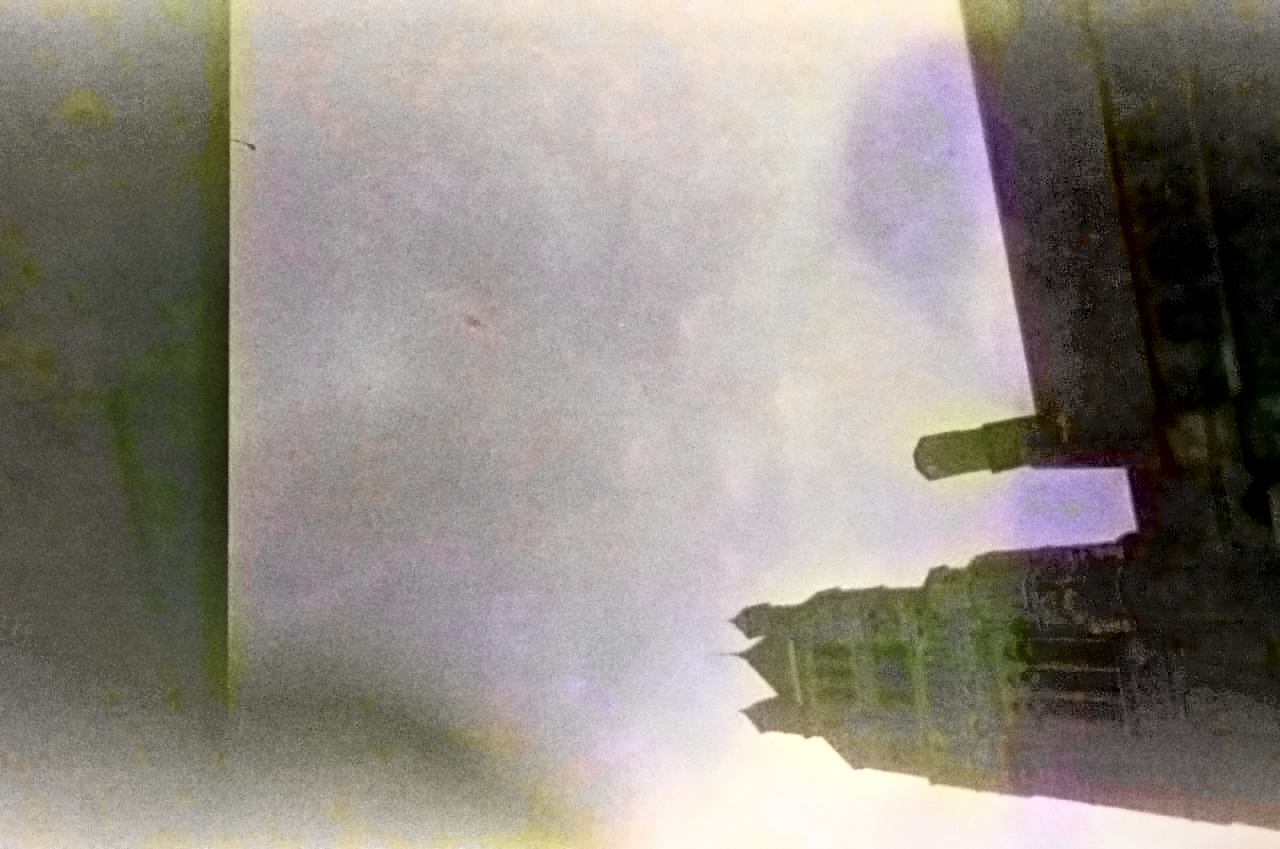
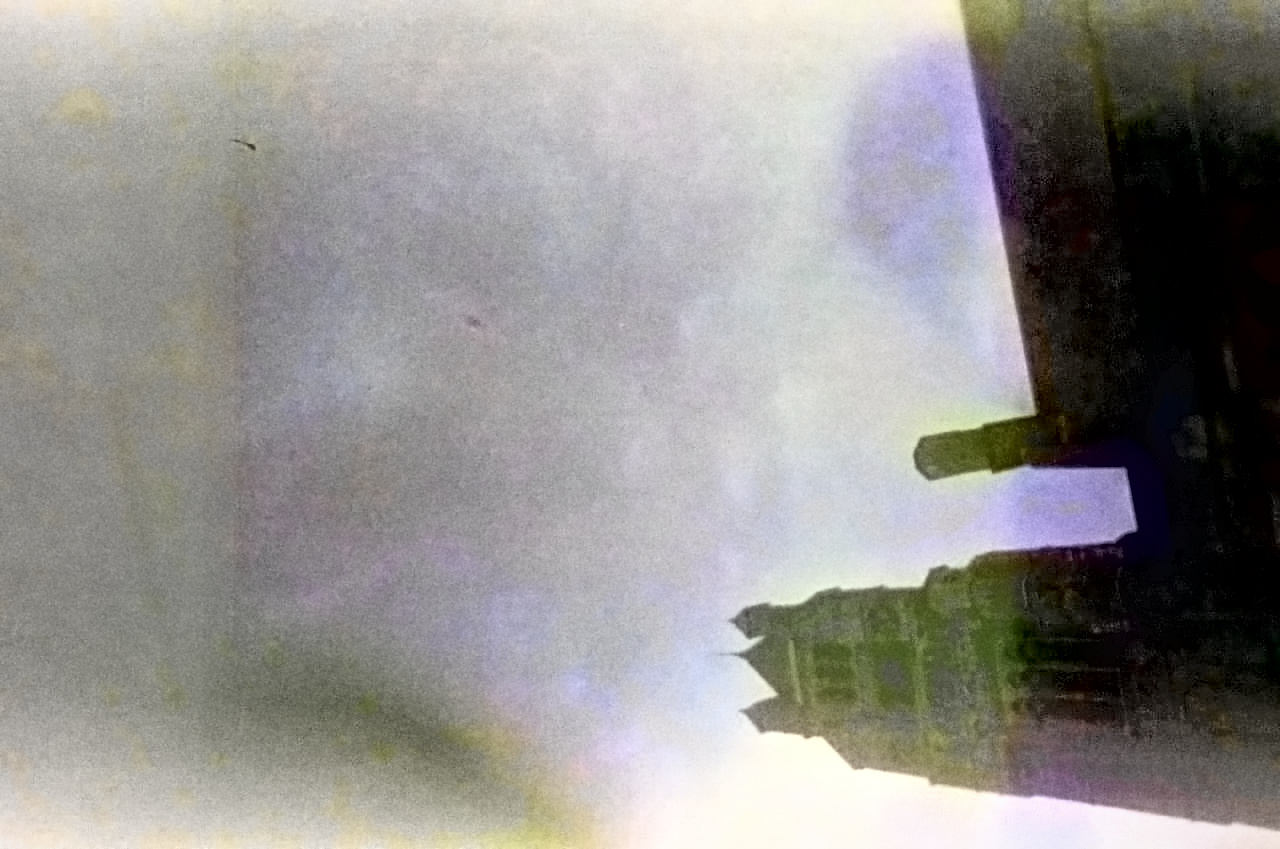
poipoisson CMU and BM3D

diff --git a/m35/lab/recon.py b/m35/lab/recon.py
@@ -1,0 +1,128 @@
+from __future__ import annotations
+
+import cv2
+import numpy as np
+from scipy.fft import dctn, idctn
+
+from ..color_space import linear_to_srgb, rgb_to_lab, srgb_to_linear
+
+RECON_DEFAULTS = {
+    "seam_z": 12.0,
+    "seam_max": 4,
+    "seam_halfwidth": 3,
+    "seam_blur": 2.0,
+    "spot_max_area": 40,
+    "spot_z": 5.0,
+    "spot_radius": 3,
+}
+
+
+def poisson_solve(div: np.ndarray) -> np.ndarray:
+    m, n = div.shape
+    coeff = dctn(div, type=2, norm="ortho")
+    i = np.arange(m).reshape(-1, 1)
+    j = np.arange(n).reshape(1, -1)
+    denom = 2.0 * np.cos(np.pi * i / m) + 2.0 * np.cos(np.pi * j / n) - 4.0
+    denom[0, 0] = 1.0
+    out = coeff / denom
+    out[0, 0] = 0.0
+    return idctn(out, type=2, norm="ortho")
+
+
+def forward_gradients(plane: np.ndarray) -> tuple[np.ndarray, np.ndarray]:
+    gx = np.zeros_like(plane)
+    gy = np.zeros_like(plane)
+    gx[:, :-1] = plane[:, 1:] - plane[:, :-1]
+    gy[:-1, :] = plane[1:, :] - plane[:-1, :]
+    return gx, gy
+
+
+def divergence(gx: np.ndarray, gy: np.ndarray) -> np.ndarray:
+    d = np.zeros_like(gx)
+    d[:, 1:] += gx[:, 1:] - gx[:, :-1]
+    d[:, 0] += gx[:, 0]
+    d[1:, :] += gy[1:, :] - gy[:-1, :]
+    d[0, :] += gy[0, :]
+    return d
+
+
+def _profile_peaks(profile: np.ndarray, z_thresh: float, limit: int) -> list[int]:
+    med = float(np.median(profile))
+    mad = float(np.median(np.abs(profile - med))) + 1e-6
+    z = (profile - med) / mad
+    idx = np.where(z > z_thresh)[0]
+    if idx.size == 0:
+        return []
+    groups: list[list[int]] = []
+    for i in idx:
+        if groups and i - groups[-1][-1] <= 4:
+            groups[-1].append(int(i))
+        else:
+            groups.append([int(i)])
+    scored = sorted(((float(z[g].max()), int(np.mean(g))) for g in groups), reverse=True)
+    edge = max(6, int(0.01 * profile.size))
+    kept = [pos for _, pos in scored if edge < pos < profile.size - edge]
+    return kept[:limit]
+
+
+def detect_seams(rgb: np.ndarray, cfg: dict | None = None) -> tuple[list[int], list[int]]:
+    cfg = {**RECON_DEFAULTS, **(cfg or {})}
+    lightness = cv2.GaussianBlur(rgb_to_lab(rgb)[..., 0], (0, 0), float(cfg["seam_blur"]))
+    col_profile = np.abs(np.diff(lightness, axis=1)).mean(axis=0)
+    row_profile = np.abs(np.diff(lightness, axis=0)).mean(axis=1)
+    limit = int(cfg["seam_max"])
+    cols = _profile_peaks(col_profile, float(cfg["seam_z"]), limit)
+    rows = _profile_peaks(row_profile, float(cfg["seam_z"]), limit)
+    return cols, rows
+
+
+def remove_seams(rgb: np.ndarray, cols: list[int], rows: list[int],
+                 cfg: dict | None = None) -> np.ndarray:
+    if not cols and not rows:
+        return rgb
+    cfg = {**RECON_DEFAULTS, **(cfg or {})}
+    half = int(cfg["seam_halfwidth"])
+    lin = srgb_to_linear(rgb)
+    out = np.empty_like(lin)
+    h, w = lin.shape[:2]
+
+    for c in range(3):
+        plane = lin[..., c]
+        gx, gy = forward_gradients(plane)
+        for col in cols:
+            gx[:, max(0, col - half):min(w, col + half + 1)] = 0.0
+        for row in rows:
+            gy[max(0, row - half):min(h, row + half + 1), :] = 0.0
+        solved = poisson_solve(divergence(gx, gy))
+        out[..., c] = solved + (float(plane.mean()) - float(solved.mean()))
+
+    return linear_to_srgb(np.clip(out, 0.0, 1.0))
+
+
+def detect_spots(rgb: np.ndarray, cfg: dict | None = None) -> np.ndarray:
+    cfg = {**RECON_DEFAULTS, **(cfg or {})}
+    lightness = rgb_to_lab(rgb)[..., 0]
+    median = cv2.medianBlur(lightness.astype(np.float32), 5)
+    residual = lightness - median
+    sigma = 1.4826 * float(np.median(np.abs(residual - np.median(residual)))) + 1e-6
+    candidate = (np.abs(residual) > float(cfg["spot_z"]) * sigma).astype(np.uint8)
+
+    n, labels, stats, _ = cv2.connectedComponentsWithStats(candidate, 8)
+    mask = np.zeros_like(candidate)
+    max_area = int(cfg["spot_max_area"])
+    for i in range(1, n):
+        area = stats[i, cv2.CC_STAT_AREA]
+        if area <= max_area:
+            mask[labels == i] = 255
+    return mask
+
+
+def spot_defects(rgb: np.ndarray, cfg: dict | None = None) -> tuple[np.ndarray, int]:
+    cfg = {**RECON_DEFAULTS, **(cfg or {})}
+    mask = detect_spots(rgb, cfg)
+    count = int(cv2.connectedComponentsWithStats(mask, 8)[0]) - 1
+    if count <= 0:
+        return rgb, 0
+    rgb8 = np.clip(rgb * 255.0, 0, 255).astype(np.uint8)
+    fixed = cv2.inpaint(rgb8, mask, int(cfg["spot_radius"]), cv2.INPAINT_TELEA)
+    return (fixed.astype(np.float32) / 255.0), count

diff --git a/m35/lab/fusion.py b/m35/lab/fusion.py
@@ -13,6 +13,7 @@ from ..noise import chroma_confidence_map, denoise
 from ..render import bw_channel_weights
 from ..tone import tonal_recovery
 from .local_contrast import laplacian_local_contrast
+from .recon import detect_seams, remove_seams, spot_defects
 
 LAB_DEFAULTS: dict[str, Any] = {
     "chroma_gain": 3.5,
@@ -25,13 +26,31 @@ LAB_DEFAULTS: dict[str, Any] = {
     "gain_floor": 0.7,
     "gain_lo_pct": 25.0,
     "gain_hi_pct": 85.0,
+    "seam_z": 40.0,
+    "seam_halfwidth": 3,
+    "spot_z": 0.0,
+    "spot_max_area": 12,
 }
 
 
 def corrected_base(rgb: np.ndarray, stats: FrameStats, cfg: dict[str, Any],
-                   params: dict[str, Any]) -> np.ndarray:
+                   params: dict[str, Any], lab_cfg: dict[str, Any] | None = None) -> np.ndarray:
+    lab_cfg = lab_cfg or {}
     x = predenoise_crushed_channels(rgb, stats, cfg)
     x = channel_levels(x, stats, cfg, cfg["neutrality"], params)
+
+    seam_z = float(lab_cfg.get("seam_z", 0.0))
+    if seam_z > 0.0:
+        cols, rows = detect_seams(x, {"seam_z": seam_z})
+        if cols or rows:
+            x = remove_seams(x, cols, rows, {"seam_halfwidth": lab_cfg.get("seam_halfwidth", 3)})
+        params["seams"] = {"cols": cols, "rows": rows}
+
+    if float(lab_cfg.get("spot_z", 0.0)) > 0.0:
+        x, n = spot_defects(x, {"spot_z": lab_cfg["spot_z"],
+                                "spot_max_area": lab_cfg.get("spot_max_area", 12)})
+        params["spots_filled"] = n
+
     x = flatten_uneven_fog(x, stats, cfg, params)
     x = remove_residual_cast(x, cfg, params)
     return protect_highlights(x, cfg)
@@ -55,7 +74,7 @@ def render_fused(rgb: np.ndarray, stats: FrameStats, base_cfg: dict[str, Any],
         "chroma_denoise_scale": lab_cfg["chroma_denoise_scale"],
     })
 
-    base = corrected_base(rgb, stats, cfg, p)
+    base = corrected_base(rgb, stats, cfg, p, lab_cfg)
 
     color = tonal_recovery(base, cfg, p)
     color = denoise(color, cfg, p)

diff --git a/experiment.py b/experiment.py
@@ -35,6 +35,12 @@ def parse_args(argv: list[str]) -> argparse.Namespace:
     ap.add_argument("--grain", type=float, default=None)
     ap.add_argument("--halation", type=float, default=None)
     ap.add_argument("--dehaze-strength", type=float, default=None)
+    ap.add_argument("--seam-z", type=float, default=None,
+                    help="robust z above which a frame-spanning edge counts as a light-leak "
+                         "seam and is removed in the gradient domain; 0 disables")
+    ap.add_argument("--spot-z", type=float, default=None,
+                    help="dust/scratch spotting threshold; 0 (default) disables it, because "
+                         "on these scans grain and dust are not separable")
     ap.add_argument("--no-contact-sheet", action="store_true")
     return ap.parse_args(argv)
 
@@ -63,7 +69,8 @@ def main(argv: list[str]) -> int:
     out_dir.mkdir(parents=True, exist_ok=True)
 
     lab_cfg: dict[str, Any] = dict(LAB_DEFAULTS)
-    for key in ("chroma_gain", "lc_gain", "grain", "halation", "dehaze_strength"):
+    for key in ("chroma_gain", "lc_gain", "grain", "halation", "dehaze_strength",
+                "seam_z", "spot_z"):
         value = getattr(args, key)
         if value is not None:
             lab_cfg[key] = value

diff --git a/README.md b/README.md
@@ -44,8 +44,28 @@ grain and a slight vignette.
 `selenium`, `sepia` and `cyanotype` are split-toned from the fused luminance — on this roll
 they are the best-looking outputs by some margin.
 
+### gradient-domain seam removal
+
+A light leak often lands as a hard, frame-spanning step. Chroma flattening cannot follow it
+and a Gaussian estimate smears across it, so the band survives every filter-based attempt.
+
+`m35/lab/recon.py` finds those steps by their robust z-score in the column/row gradient
+profile, zeroes them in the gradient field, and reintegrates the image by solving Poisson
+with Neumann boundaries via DCT. The step vanishes and the two sides merge seamlessly;
+nothing else in the frame moves.
+
+The threshold matters. Genuine leak seams on this roll score z = 196, 118 and 51; real
+image edges score 12–20. At `--seam-z 12` the solver flattens actual content. The default
+of 40 fires on two frames out of eight, which is the correct answer.
+
+Dust spotting exists (`--spot-z`) but is **off by default**. At this resolution grain and
+dust are not separable — tightening the threshold from 5 to 20 takes the region count from
+11084 to 477 with no plateau, which is a continuous grain distribution rather than a
+discrete set of defects. Enabling it removes grain, not dust.
+
 ```
 --chroma-gain N --lc-gain N --grain N --halation N --dehaze-strength N
+--seam-z N --spot-z N
 ```
 
 ## layout
@@ -62,6 +82,7 @@ m35/lab/fusion.py       luminance/chroma fusion
 m35/lab/local_contrast.py   Laplacian local contrast, dehazing
 m35/lab/film_look.py    halation, grain, vignette
 m35/lab/grades.py       toning and grading looks
+m35/lab/recon.py        Poisson solver, seam removal, defect spotting
 ```
 
 ## note
